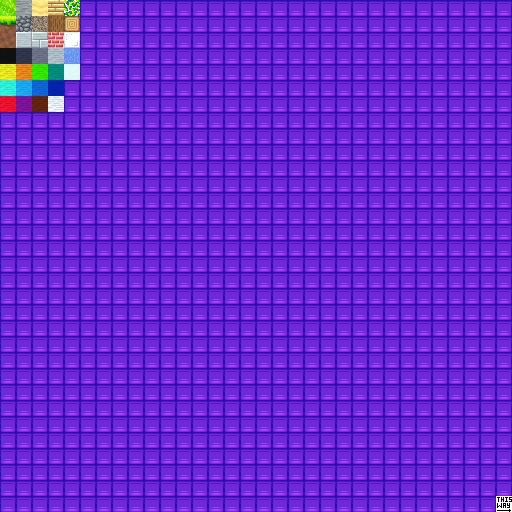
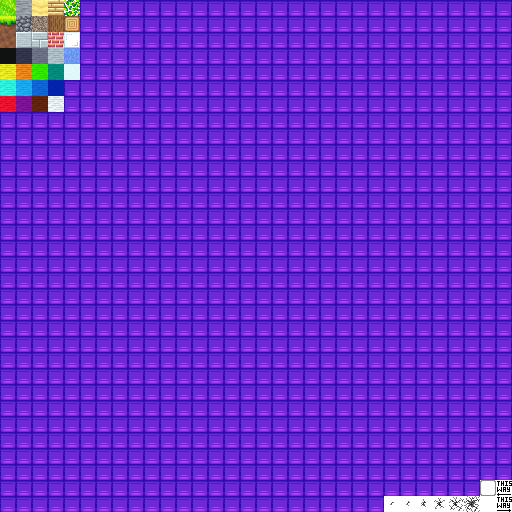
BLOCK OVERLAYYYYY!!!!!!!!

Changed region(s): [[0.75, 0.9375, 1.0, 1.0]]

diff --git a/client/src/main/java/io/bluestaggo/voxelthing/renderer/world/BlockOverlayRenderer.java b/client/src/main/java/io/bluestaggo/voxelthing/renderer/world/BlockOverlayRenderer.java
@@ -1,0 +1,140 @@
+package io.bluestaggo.voxelthing.renderer.world;
+
+import io.bluestaggo.voxelthing.Game;
+import io.bluestaggo.voxelthing.renderer.vertices.Bindings;
+import io.bluestaggo.voxelthing.world.BlockRaycast;
+import io.bluestaggo.voxelthing.world.Chunk;
+import io.bluestaggo.voxelthing.world.Direction;
+import io.bluestaggo.voxelthing.world.IBlockAccess;
+import io.bluestaggo.voxelthing.world.block.Block;
+import io.bluestaggo.voxelthing.world.block.BlockType;
+import io.bluestaggo.voxelthing.world.block.texture.AllSidesTexture;
+import io.bluestaggo.voxelthing.world.block.texture.BlockTexture;
+
+import org.joml.Vector2i;
+import org.joml.Vector3f;
+
+public class BlockOverlayRenderer {
+	private static final float SHADE_FACTOR = 0.15f;
+	private static final float OFFSET = 0.0125f;
+	private final SideRenderer[] SIDE_RENDERERS = {
+			this::renderNorthFace,
+			this::renderSouthFace,
+			this::renderWestFace,
+			this::renderEastFace,
+			this::renderBottomFace,
+			this::renderTopFace,
+	};
+
+	@FunctionalInterface
+	private interface SideRenderer {
+		void render(Bindings bindings, AllSidesTexture texture, int x, int y, int z);
+	}
+
+	private float getShade(int amount) {
+		return 1.0f - SHADE_FACTOR * amount;
+	}
+
+	public boolean render(Bindings bindings, int x, int y, int z, Direction face) {	
+		AllSidesTexture texture;
+		for (Direction dir : Direction.ALL) {
+			if (dir == face) {
+				texture = new AllSidesTexture(30, 30);
+			} else {
+				texture = new AllSidesTexture(30, 31);
+			}
+			SIDE_RENDERERS[dir.ordinal()].render(bindings, texture, x, y, z);
+		}
+		return true;
+	}
+
+	private void renderNorthFace(Bindings bindings, AllSidesTexture texture, int x, int y, int z) {
+		Vector2i tex = texture.get(Direction.NORTH, null, x, y, z);
+		float texX = tex.x * Block.TEXTURE_WIDTH;
+		float texY = tex.y * Block.TEXTURE_WIDTH;
+		float texXp = texX + Block.TEXTURE_WIDTH;
+		float texYp = texY + Block.TEXTURE_WIDTH;
+		float shade = getShade(1);
+
+		bindings.addVertices(   x+OFFSET+1,  y+OFFSET+1,  z - OFFSET,  shade,  shade,  shade,  texX,   texY    );
+		bindings.addVertices(   x+OFFSET+1,  y - OFFSET,  z - OFFSET,  shade,  shade,  shade,  texX,   texYp   );
+		bindings.addVertices(   x - OFFSET,  y - OFFSET,  z - OFFSET,  shade,  shade,  shade,  texXp,  texYp   );
+		bindings.addVertices(   x - OFFSET,  y+OFFSET+1,  z - OFFSET,  shade,  shade,  shade,  texXp,  texY    );
+		bindings.addIndices(0, 1, 2, 2, 3, 0);
+	}
+
+	private void renderSouthFace(Bindings bindings, AllSidesTexture texture, int x, int y, int z) {
+		Vector2i tex = texture.get(Direction.NORTH, null, x, y, z);
+		float texX = tex.x * Block.TEXTURE_WIDTH;
+		float texY = tex.y * Block.TEXTURE_WIDTH;
+		float texXp = texX + Block.TEXTURE_WIDTH;
+		float texYp = texY + Block.TEXTURE_WIDTH;
+		float shade = getShade(3);
+
+		bindings.addVertices(   x - OFFSET,  y+OFFSET+1,  z+OFFSET+1,  shade,  shade,  shade,  texX,   texY    );
+		bindings.addVertices(   x - OFFSET,  y - OFFSET,  z+OFFSET+1,  shade,  shade,  shade,  texX,   texYp   );
+		bindings.addVertices(   x+OFFSET+1,  y - OFFSET,  z+OFFSET+1,  shade,  shade,  shade,  texXp,  texYp   );
+		bindings.addVertices(   x+OFFSET+1,  y+OFFSET+1,  z+OFFSET+1,  shade,  shade,  shade,  texXp,  texY    );
+		bindings.addIndices(0, 1, 2, 2, 3, 0);
+	}
+
+	private void renderWestFace(Bindings bindings, AllSidesTexture texture, int x, int y, int z) {
+		Vector2i tex = texture.get(Direction.NORTH, null, x, y, z);
+		float texX = tex.x * Block.TEXTURE_WIDTH;
+		float texY = tex.y * Block.TEXTURE_WIDTH;
+		float texXp = texX + Block.TEXTURE_WIDTH;
+		float texYp = texY + Block.TEXTURE_WIDTH;
+		float shade = getShade(2);
+
+		bindings.addVertices(   x - OFFSET,  y+OFFSET+1,  z - OFFSET,  shade,  shade,  shade,  texX,   texY    );
+		bindings.addVertices(   x - OFFSET,  y - OFFSET,  z - OFFSET,  shade,  shade,  shade,  texX,   texYp   );
+		bindings.addVertices(   x - OFFSET,  y - OFFSET,  z+OFFSET+1,  shade,  shade,  shade,  texXp,  texYp   );
+		bindings.addVertices(   x - OFFSET,  y+OFFSET+1,  z+OFFSET+1,  shade,  shade,  shade,  texXp,  texY    );
+		bindings.addIndices(0, 1, 2, 2, 3, 0);
+	}
+
+	private void renderEastFace(Bindings bindings, AllSidesTexture texture, int x, int y, int z) {
+		Vector2i tex = texture.get(Direction.NORTH, null, x, y, z);
+		float texX = tex.x * Block.TEXTURE_WIDTH;
+		float texY = tex.y * Block.TEXTURE_WIDTH;
+		float texXp = texX + Block.TEXTURE_WIDTH;
+		float texYp = texY + Block.TEXTURE_WIDTH;
+		float shade = getShade(2);
+
+		bindings.addVertices(   x+OFFSET+1,  y+OFFSET+1,  z+OFFSET+1,  shade,  shade,  shade,  texX,   texY    );
+		bindings.addVertices(   x+OFFSET+1,  y - OFFSET,  z+OFFSET+1,  shade,  shade,  shade,  texX,   texYp   );
+		bindings.addVertices(   x+OFFSET+1,  y - OFFSET,  z - OFFSET,  shade,  shade,  shade,  texXp,  texYp   );
+		bindings.addVertices(   x+OFFSET+1,  y+OFFSET+1,  z - OFFSET,  shade,  shade,  shade,  texXp,  texY    );
+		bindings.addIndices(0, 1, 2, 2, 3, 0);
+	}
+
+	private void renderBottomFace(Bindings bindings, AllSidesTexture texture, int x, int y, int z) {
+		Vector2i tex = texture.get(Direction.NORTH, null, x, y, z);
+		float texX = tex.x * Block.TEXTURE_WIDTH;
+		float texY = tex.y * Block.TEXTURE_WIDTH;
+		float texXp = texX + Block.TEXTURE_WIDTH;
+		float texYp = texY + Block.TEXTURE_WIDTH;
+		float shade = getShade(4);
+
+		bindings.addVertices(   x+OFFSET+1,  y - OFFSET,  z - OFFSET,   shade,  shade,  shade,  texX,   texY    );
+		bindings.addVertices(   x+OFFSET+1,  y - OFFSET,  z+OFFSET+1,  shade,  shade,  shade,  texX,   texYp   );
+		bindings.addVertices(   x - OFFSET,  y - OFFSET,  z+OFFSET+1,  shade,  shade,  shade,  texXp,  texYp   );
+		bindings.addVertices(   x - OFFSET,  y - OFFSET,  z - OFFSET,  shade,  shade,  shade,  texXp,  texY    );
+		bindings.addIndices(0, 1, 2, 2, 3, 0);
+	}
+
+	private void renderTopFace(Bindings bindings, AllSidesTexture texture, int x, int y, int z) {
+		Vector2i tex = texture.get(Direction.NORTH, null, x, y, z);
+		float texX = tex.x * Block.TEXTURE_WIDTH;
+		float texY = tex.y * Block.TEXTURE_WIDTH;
+		float texXp = texX + Block.TEXTURE_WIDTH;
+		float texYp = texY + Block.TEXTURE_WIDTH;
+		float shade = getShade(0);
+
+		bindings.addVertices(   x+OFFSET+1,  y+OFFSET+1,  z+OFFSET+1,  shade,  shade,  shade,  texX,   texY    );
+		bindings.addVertices(   x+OFFSET+1,  y+OFFSET+1,  z - OFFSET,  shade,  shade,  shade,  texX,   texYp   );
+		bindings.addVertices(   x - OFFSET,  y+OFFSET+1,  z - OFFSET,  shade,  shade,  shade,  texXp,  texYp   );
+		bindings.addVertices(   x - OFFSET,  y+OFFSET+1,  z+OFFSET+1,  shade,  shade,  shade,  texXp,  texY    );
+		bindings.addIndices(0, 1, 2, 2, 3, 0);
+	}
+}

diff --git a/shared/src/main/java/io/bluestaggo/voxelthing/world/block/Block.java b/shared/src/main/java/io/bluestaggo/voxelthing/world/block/Block.java
@@ -12,6 +12,8 @@ import io.bluestaggo.voxelthing.world.block.texture.GrassTexture;
 import java.util.*;
 import java.util.stream.IntStream;
 
+import org.joml.Vector2i;
+
 public class Block {
 	public static final int TEXTURE_RES = 512;
 	public static final int TEXTURE_ROWS = TEXTURE_RES / 16;
@@ -26,6 +28,7 @@ public class Block {
 	public static final List<Block> REGISTERED_SLABS_ORDERED = Collections.unmodifiableList(REGISTERED_SLABS_O);
 
 	public final BlockType type;
+	public String[] blockStates = {};
 
 	public static final String[] WOOL_NAMES = {
 			"black",
@@ -66,7 +69,7 @@ public class Block {
 			.mapToObj(i -> new Block("wool_" + WOOL_NAMES[i]).withTex(i % 4, i / 4 + 3))
 			.toArray(Block[]::new);
 	public static final Block[] SLABS = IntStream.range(0, REGISTERED_BLOCKS_ORDERED_MUTABLE.size())
-			.mapToObj(i -> new Block(REGISTERED_BLOCKS_ORDERED_MUTABLE.get(i).getId().name + "_slab",BlockType.slab).withTex(REGISTERED_BLOCKS_ORDERED_MUTABLE.get(i).texture))
+			.mapToObj(i -> new Block(REGISTERED_BLOCKS_ORDERED_MUTABLE.get(i).getId().name + "_slab",BlockType.slab, new String[]{"Bottom"}).withTex(REGISTERED_BLOCKS_ORDERED_MUTABLE.get(i).texture))
 			.toArray(Block[]::new);
 
 	public final Identifier id;
@@ -78,23 +81,24 @@ public class Block {
 	}
 
 	public Block(String id) {
-		this(new Identifier(id), BlockType.Normal);
+		this(new Identifier(id), BlockType.Normal, new String[]{});
 	}
 
-	public Block(String id, BlockType type) {
-		this(new Identifier(id), type);
+	public Block(String id, BlockType type, String[] states) {
+		this(new Identifier(id), type, states);
 	}
 
 	public Block(String namespace, String name) {
-		this(new Identifier(namespace, name), BlockType.Normal);
+		this(new Identifier(namespace, name), BlockType.Normal, new String[]{});
 	}
 
-	public Block(Identifier id, BlockType type) {
+	public Block(Identifier id, BlockType type, String[] states) {
 		if (REGISTERED_BLOCKS.containsKey(id)) {
 			throw new IllegalArgumentException("Block \"" + id + "\" already exists");
 		}
 
 		this.type = type;
+		this.blockStates = states;
 
 		this.id = id;
 		REGISTERED_BLOCKS_ORDERED_MUTABLE.add(this);

diff --git a/client/src/main/java/io/bluestaggo/voxelthing/renderer/world/WorldRenderer.java b/client/src/main/java/io/bluestaggo/voxelthing/renderer/world/WorldRenderer.java
@@ -1,18 +1,30 @@
 package io.bluestaggo.voxelthing.renderer.world;
 
+import io.bluestaggo.voxelthing.Game;
 import io.bluestaggo.voxelthing.renderer.GLState;
 import io.bluestaggo.voxelthing.renderer.MainRenderer;
 import io.bluestaggo.voxelthing.renderer.util.Primitives;
 import io.bluestaggo.voxelthing.renderer.vertices.Bindings;
+import io.bluestaggo.voxelthing.renderer.vertices.VertexLayout;
+import io.bluestaggo.voxelthing.renderer.vertices.VertexType;
 import io.bluestaggo.voxelthing.window.Window;
+import io.bluestaggo.voxelthing.world.BlockRaycast;
 import io.bluestaggo.voxelthing.world.Chunk;
 import io.bluestaggo.voxelthing.world.World;
+import io.bluestaggo.voxelthing.world.block.texture.AllSidesTexture;
+
 import org.joml.FrustumIntersection;
 import org.joml.Vector3f;
 
 import java.util.Arrays;
 import java.util.List;
 
+import static org.lwjgl.opengl.GL11C.GL_BACK;
+import static org.lwjgl.opengl.GL11C.GL_BLEND;
+import static org.lwjgl.opengl.GL11C.GL_CULL_FACE;
+import static org.lwjgl.opengl.GL11C.GL_DEPTH_TEST;
+import static org.lwjgl.opengl.GL11C.GL_FRONT;
+import static org.lwjgl.opengl.GL11C.glCullFace;
 import static org.lwjgl.opengl.GL33C.*;
 
 public class WorldRenderer {
@@ -93,6 +105,17 @@ public class WorldRenderer {
 			renderer.worldShader.fade.set((float)chunkRenderer.getFadeAmount(currentTime));
 			chunkRenderer.draw();
 		}
+		Game game = Game.getInstance();
+		BlockRaycast raycast = game.getBlockRaycast();
+		Bindings bindings = new Bindings(VertexLayout.WORLD);
+		if (raycast.blockHit()) {
+			renderer.blockOverlayRenderer.render(bindings, raycast.getHitX(), raycast.getHitY(), raycast.getHitZ(), raycast.getHitFace());
+		}
+		if (bindings != null) {
+			bindings.upload(true);
+			bindings.draw();
+		}
+
 
 		renderer.worldShader.fade.set(0.0f);
 	}

diff --git a/client/src/main/java/io/bluestaggo/voxelthing/renderer/world/ChunkRenderer.java b/client/src/main/java/io/bluestaggo/voxelthing/renderer/world/ChunkRenderer.java
@@ -1,5 +1,6 @@
 package io.bluestaggo.voxelthing.renderer.world;
 
+import io.bluestaggo.voxelthing.assets.Texture;
 import io.bluestaggo.voxelthing.math.MathUtil;
 import io.bluestaggo.voxelthing.renderer.MainRenderer;
 import io.bluestaggo.voxelthing.renderer.vertices.Bindings;
@@ -9,6 +10,8 @@ import io.bluestaggo.voxelthing.world.Chunk;
 import io.bluestaggo.voxelthing.world.ChunkCache;
 import io.bluestaggo.voxelthing.world.IBlockAccess;
 import io.bluestaggo.voxelthing.world.World;
+import io.bluestaggo.voxelthing.world.block.texture.AllSidesTexture;
+
 import org.joml.FrustumIntersection;
 
 public class ChunkRenderer {
@@ -68,10 +71,12 @@ public class ChunkRenderer {
 			}
 
 			IBlockAccess cache = new ChunkCache(world, x, y, z);
+			
 			for (int xx = 0; xx < Chunk.LENGTH; xx++) {
 				for (int yy = 0; yy < Chunk.LENGTH; yy++) {
 					for (int zz = 0; zz < Chunk.LENGTH; zz++) {
-						 empty &= !renderer.blockRenderer.render(bindings, cache, chunk, xx, yy, zz);
+						empty &= !renderer.blockRenderer.render(bindings, cache, chunk, xx, yy, zz);
+						
 					}
 				}
 			}

diff --git a/client/src/main/java/io/bluestaggo/voxelthing/renderer/world/BlockRenderer.java b/client/src/main/java/io/bluestaggo/voxelthing/renderer/world/BlockRenderer.java
@@ -1,6 +1,8 @@
 package io.bluestaggo.voxelthing.renderer.world;
 
+import io.bluestaggo.voxelthing.Game;
 import io.bluestaggo.voxelthing.renderer.vertices.Bindings;
+import io.bluestaggo.voxelthing.world.BlockRaycast;
 import io.bluestaggo.voxelthing.world.Chunk;
 import io.bluestaggo.voxelthing.world.Direction;
 import io.bluestaggo.voxelthing.world.IBlockAccess;
@@ -38,7 +40,7 @@ public class BlockRenderer {
 		if (block == null) {
 			return false;
 		}
-		BlockType type = block.type;
+		
 		xOffSet = block.type.shape().x;
 		yOffSet = block.type.shape().y;
 		zOffSet = block.type.shape().z;
@@ -46,12 +48,12 @@ public class BlockRenderer {
 		int xx = x + Chunk.LENGTH * chunk.x;
 		int yy = y + Chunk.LENGTH * chunk.y;
 		int zz = z + Chunk.LENGTH * chunk.z;
+		
 		for (Direction dir : Direction.ALL) {
 			if (block.isFaceDrawn(blockAccess, xx + dir.X, yy + dir.Y, zz + dir.Z, dir, block)) {
 				SIDE_RENDERERS[dir.ordinal()].render(bindings, blockAccess, block, xx, yy, zz);
 			}
 		}
-
 		return true;
 	}
 

diff --git a/client/src/main/java/io/bluestaggo/voxelthing/renderer/MainRenderer.java b/client/src/main/java/io/bluestaggo/voxelthing/renderer/MainRenderer.java
@@ -11,6 +11,7 @@ import io.bluestaggo.voxelthing.renderer.world.BlockRenderer;
 import io.bluestaggo.voxelthing.renderer.world.Camera;
 import io.bluestaggo.voxelthing.renderer.world.EntityRenderer;
 import io.bluestaggo.voxelthing.renderer.world.WorldRenderer;
+import io.bluestaggo.voxelthing.renderer.world.BlockOverlayRenderer;
 import io.bluestaggo.voxelthing.window.Window;
 import org.joml.Matrix4f;
 import org.joml.Vector3f;
@@ -37,6 +38,7 @@ public class MainRenderer {
 	public final WorldRenderer worldRenderer;
 	public final BlockRenderer blockRenderer;
 	public final EntityRenderer entityRenderer;
+	public final BlockOverlayRenderer blockOverlayRenderer;
 
 	public final Draw2D draw2D;
 
@@ -66,6 +68,7 @@ public class MainRenderer {
 			worldRenderer = new WorldRenderer(this);
 			blockRenderer = new BlockRenderer();
 			entityRenderer = new EntityRenderer(this);
+			blockOverlayRenderer = new BlockOverlayRenderer();
 
 			draw2D = new Draw2D(this);
 

diff --git a/shared/src/main/java/io/bluestaggo/voxelthing/world/World.java b/shared/src/main/java/io/bluestaggo/voxelthing/world/World.java
@@ -186,10 +186,14 @@ public class World implements IBlockAccess {
 
 
 					if (trees != 0 && yy == Math.round(height) && yy > waterLevel && yy < snowHeight) {
-						//getOrLoadChunkAt(cx, cy+1, cz);
+						
 						if (trees == 1) {
 							for (int i = 0; i < Structures.SmallTree.getStructure().length; i++) {
-								setBlock(xx - Structures.SmallTree.getStructure()[i].x, yy - Structures.SmallTree.getStructure()[i].y, zz - Structures.SmallTree.getStructure()[i].z, Structures.SmallTree.getStructure()[i].block);
+								int xxx =  xx - Structures.SmallTree.getStructure()[i].x;
+								int yyy = yy - Structures.SmallTree.getStructure()[i].y;
+								int zzz = zz - Structures.SmallTree.getStructure()[i].z;
+
+								setBlock(xxx, yyy, zzz, Structures.SmallTree.getStructure()[i].block);
 							}
 						}
 						if (trees == 2) {

diff --git a/shared/src/main/java/io/bluestaggo/voxelthing/world/generation/GenerationInfo.java b/shared/src/main/java/io/bluestaggo/voxelthing/world/generation/GenerationInfo.java
@@ -227,15 +227,19 @@ public class GenerationInfo {
 	}
 
 	public Biomes getBiome(int x, int z) {
-		return biomes[x + z * Chunk.LENGTH];
+		if (biomes.length > x + z * Chunk.LENGTH && x + z * Chunk.LENGTH > 0) {
+			return biomes[x + z * Chunk.LENGTH];
+		}
+		return Biomes.Plains;
 	}
 
 	public String returnStringBiome(double x, double z) {
 		int xx = (int) x / Chunk.LENGTH;
 		int zz = (int) z / Chunk.LENGTH;
+		biomeGen();
 		try {
 			return getBiome(xx, zz).toString();
-		} catch (IndexOutOfBoundsException e) {
+		} catch (NullPointerException e) {
 			return "Depths Of Hell";
 		}
 

diff --git a/shared/src/main/java/io/bluestaggo/voxelthing/world/Chunk.java b/shared/src/main/java/io/bluestaggo/voxelthing/world/Chunk.java
@@ -5,6 +5,7 @@ import io.bluestaggo.pds.ListItem;
 import io.bluestaggo.voxelthing.Identifier;
 import io.bluestaggo.voxelthing.world.block.Block;
 import io.bluestaggo.voxelthing.world.storage.EmptyBlockStorage;
+import io.bluestaggo.voxelthing.world.generation.blockInStructure;
 
 import java.util.ArrayList;
 import java.util.List;
